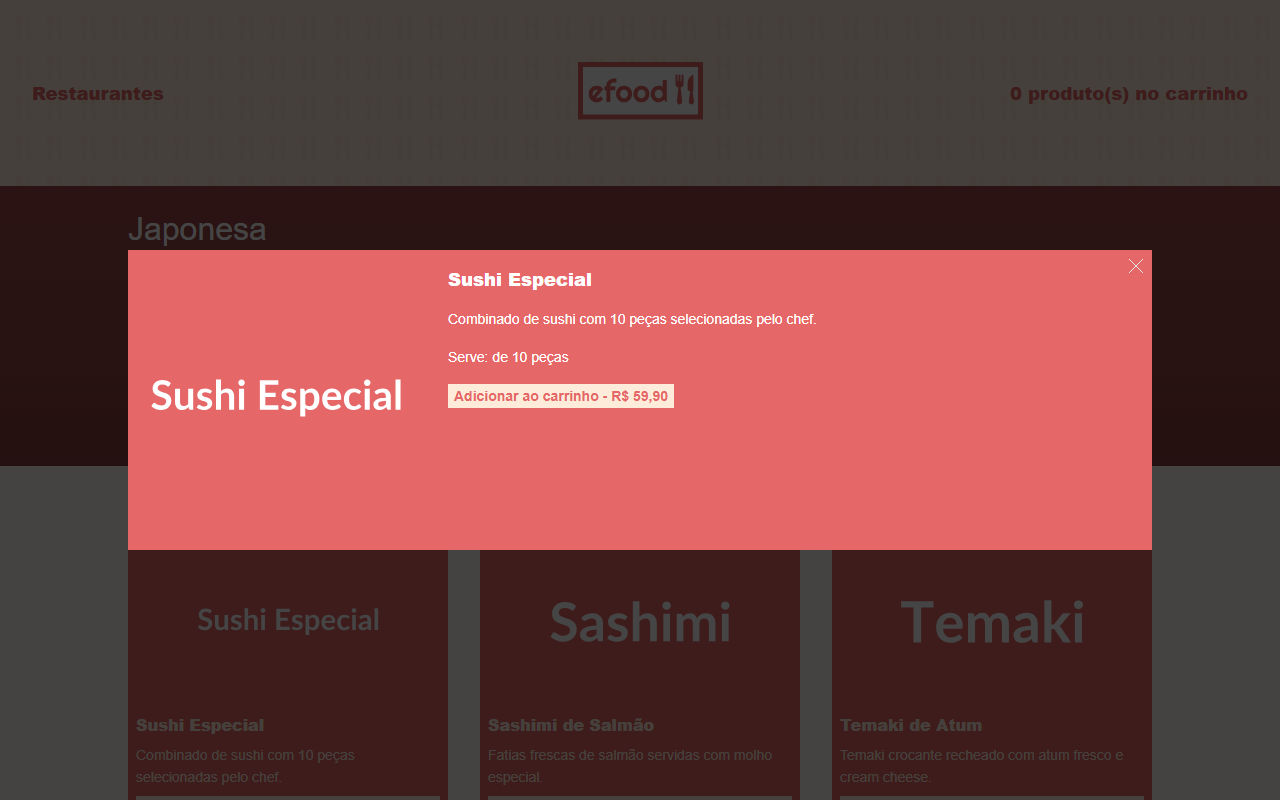
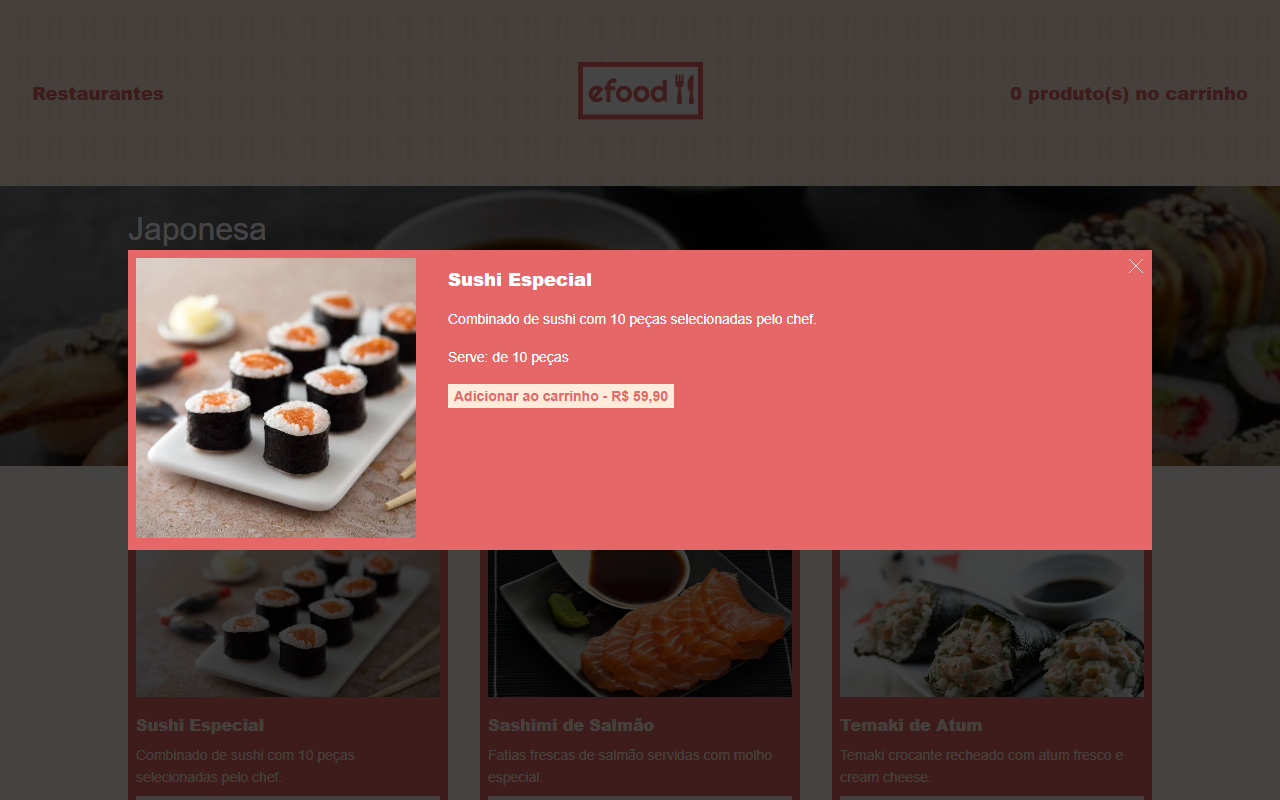
feat:mockData.ts fix and screenshots

diff --git a/src/services/mockData.ts b/src/services/mockData.ts
@@ -70,7 +70,7 @@ export const mockRestaurants: SupabaseRestaurant[] = [
       {
         id: 6,
         nome: 'Fettuccine Alfredo',
-        descricao: 'Fettuccine ao molho cremoso com parmesão.             ',
+        descricao: 'Fettuccine ao molho branco especial cremoso e parmesão.',
         preco: 42.0,
         porcao: '1 porção',
         foto: 'https://www.foodandwine.com/thmb/2Ag8ydBo-tywQO8h8DUQB4LGAnY=/750x0/filters:no_upscale():max_bytes(150000):strip_icc():format(webp)/virginia-fettuccine-alfredo-FT-RECIPE0425-b5f151f29f7d43f9b8630411792cbe8a.jpeg'
